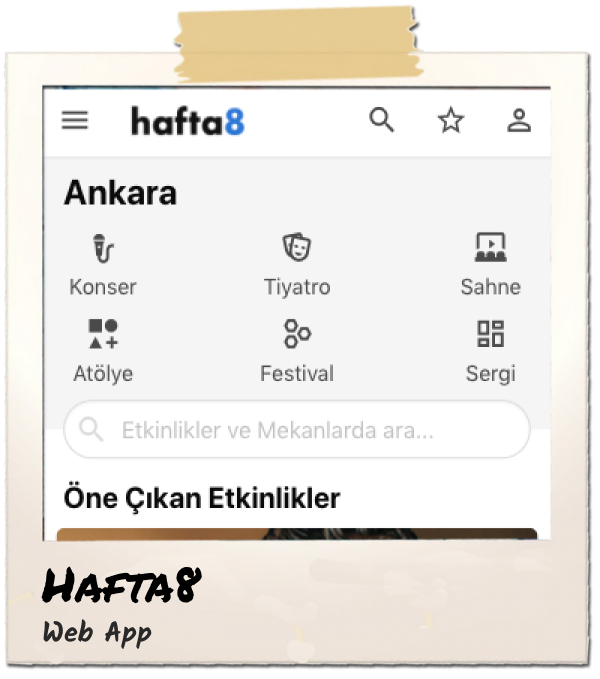
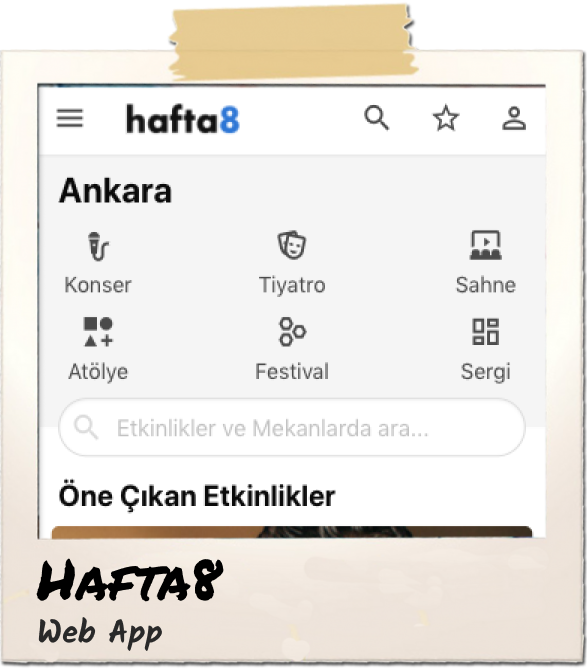
Updates

diff --git a/assets/style/main.css b/assets/style/main.css
@@ -1,5 +1,6 @@
 @import url('https://fonts.googleapis.com/css2?family=Alegreya:wght@900&display=swap');
 @import url('https://fonts.googleapis.com/css2?family=Roboto+Slab:wght@400;500;600;700&display=swap');
+@import url('https://fonts.googleapis.com/css2?family=Kalam:wght@400;500;600;700&display=swap');
 .font-alegreya {
     font-family: 'Alegreya', serif;
 }
@@ -19,7 +20,9 @@
 }
 
 html, body {
-    font-family: 'Roboto Slab', serif;
+    /* font-family: 'Roboto Slab', serif; */
+    font-family: 'Kalam', serif;
+    /* font-weight: bold; */
 }
 
 body {
@@ -47,7 +50,7 @@ body {
 }
 
 .article {
-    padding: 16px;
+    padding: 8px;
 }
 
 .home-page header, .media-list, .title, .subtitle, .section-title {
@@ -71,9 +74,9 @@ article .title {
     line-height: 1.5;
 }
 
-.home-page article .title {
+/* .home-page article .title {
     transform: translateY(-48px);
-}
+} */
 
 article .subtitle {
     transform: translateY(-4px);
@@ -106,9 +109,9 @@ article ul li h4.inline {
 }
 
 article ul li p {
-    color: rgba(74, 85, 104, 1);
-    font-size: .75rem;
-    line-height: 1.5;
+    color: var(--text-g-9);
+    font-size: 1rem;
+    line-height: 1.35;
     margin-top: 0.25rem;
 }
 
@@ -126,7 +129,7 @@ article time {
 }
 
 .media-list .list-item {
-    width: calc(50vw - 24px);
+    width: calc(50vw - 16px);
     margin: 4px;
     margin-bottom: 16px;
 }
@@ -295,7 +298,7 @@ footer {
         justify-content: center;
     }
     .media-list .list-item {
-        width: calc(33% - 8px);
-        margin: 4px;
+        width: calc(32% - 8px);
+        margin: 8px;
     }
 }

diff --git a/index.html b/index.html
@@ -93,7 +93,7 @@
                         <a href="./projects/project-paneka-co.html">
                             <img src="./assets/img/paneka-thumb.png" alt="">
                             <div class="info">
-                                <h4>Paneka Co. | Bakery & Pasta</h4>
+                                <!-- <h4>Paneka Co. | Bakery & Pasta</h4> -->
                                 <p>Unlu mamüller üzerine bir web tasarımı. (şahsi proje)</p>
                             </div>
                         </a>
@@ -102,7 +102,7 @@
                         <a href="./projects/project-bugi-organizasyon.html">
                             <img src="./assets/img/bugi-thumb.png" alt="">
                             <div class="info">
-                                <h4>Bugi Organizasyon</h4>
+                                <!-- <h4>Bugi Organizasyon</h4> -->
                                 <p>Organizasyon ve etkinlik web sitesi. (müşteri projesi)</p>
                             </div>
                         </a>
@@ -111,7 +111,7 @@
                         <a href="./projects/project-bubble.html">
                             <img src="./assets/img/bubble-thumb.png" alt="">
                             <div class="info">
-                                <h4>Bubble Perisi</h4>
+                                <!-- <h4>Bubble Perisi</h4> -->
                                 <p>Bubble Perisi kişisel web sitesi. (müşteri projesi)</p>
                             </div>
                         </a>
